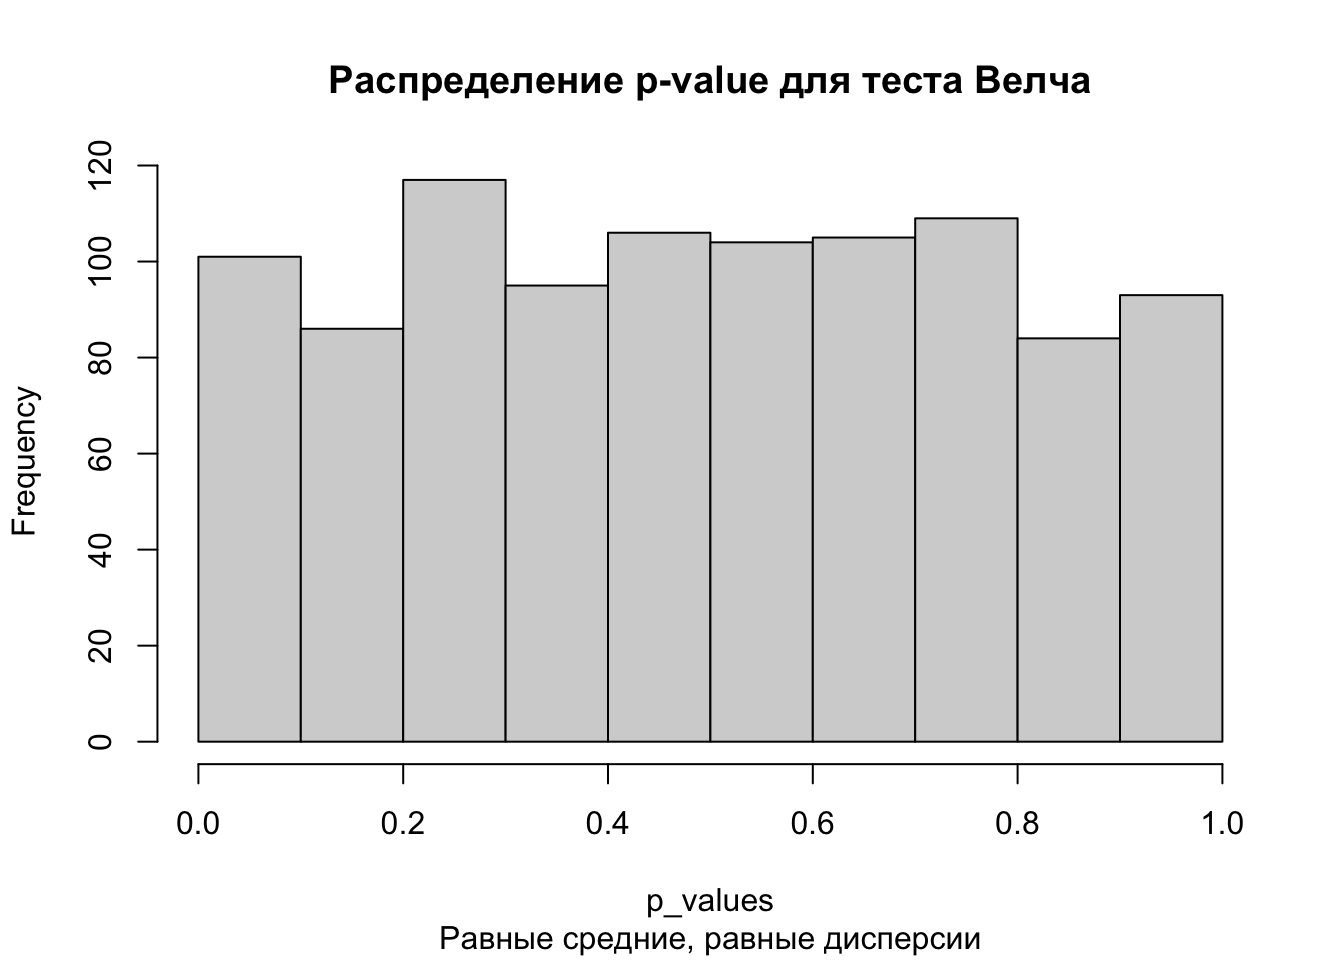
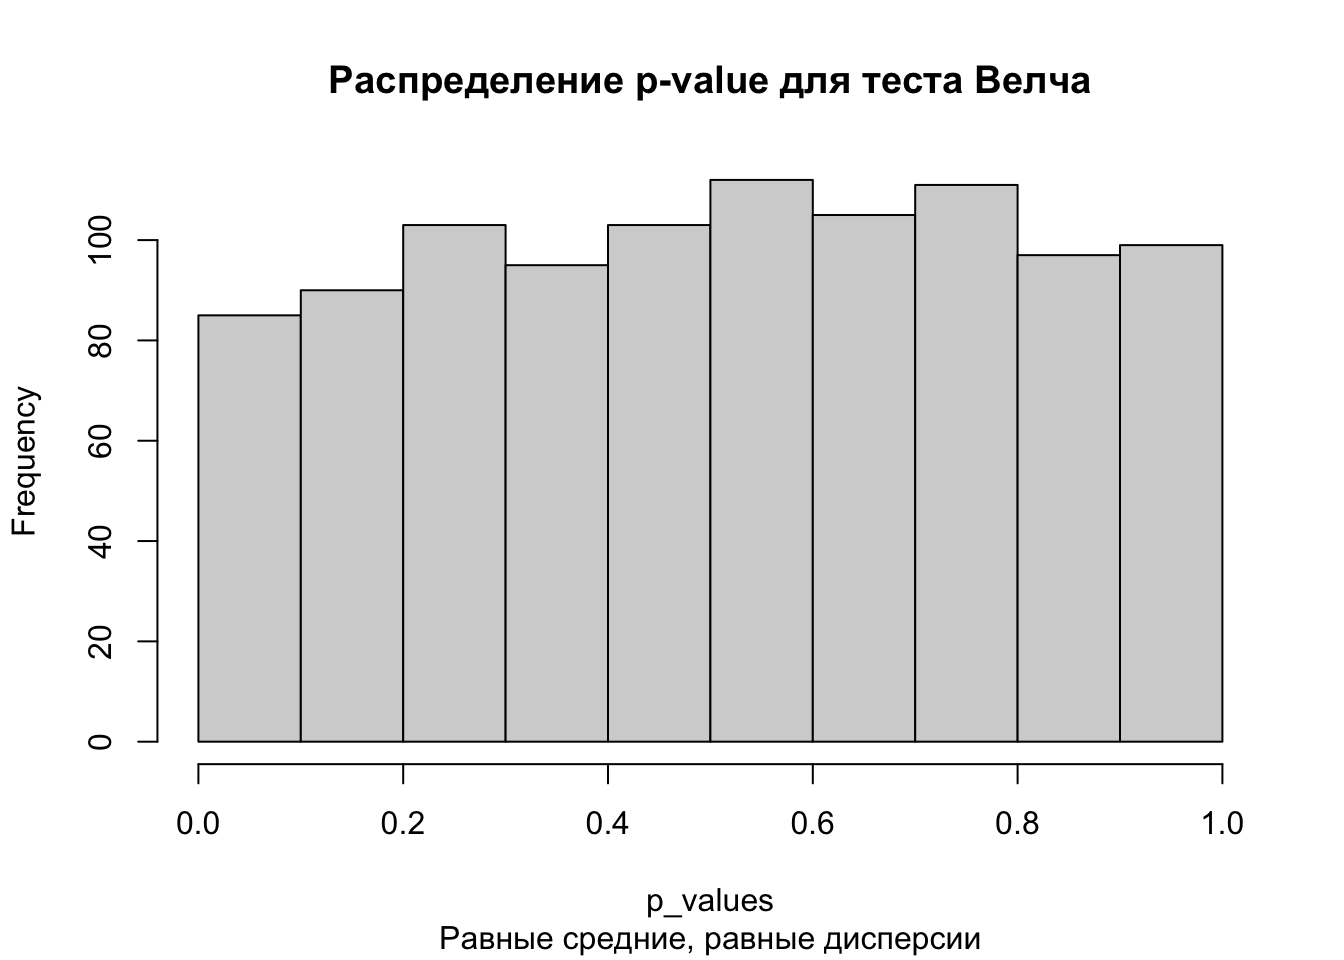
Built site for gh-pages

diff --git a/posts/welch_test.html b/posts/welch_test.html
@@ -301,13 +301,13 @@ s_x = \sqrt{\frac{(n_1 - 1)s_1^2 + (n_2 - 1)s_2^2}{n_1 + n_2 - 2}}
     Two Sample t-test
 
 data:  rnorm(100, mean = 0, sd = 1) and rnorm(100, mean = 0, sd = 1)
-t = 0.21959, df = 198, p-value = 0.8264
+t = -0.88299, df = 198, p-value = 0.3783
 alternative hypothesis: true difference in means is not equal to 0
 95 percent confidence interval:
- -0.2432011  0.3041501
+ -0.4127938  0.1574581
 sample estimates:
-  mean of x   mean of y 
--0.01654299 -0.04701750 </code></pre>
+   mean of x    mean of y 
+-0.129252208 -0.001584367 </code></pre>
 </div>
 </div>
 <p>Однако это делать не рекомендуется, поскольку при равных дисперсиях тест Стьюдента не будет сильно отличаться от теста Велча, а при разных тест Велча точнее.</p>
@@ -377,7 +377,7 @@ df = \frac{(s_1^2/n_1 + s_2^2 / n_2)^2}{(s_1^2/n_1)^2/(n_1-1) + (s_2^2/n_2)^2/(n
 </div>
 <div class="sourceCode cell-code" id="cb5"><pre class="sourceCode r code-with-copy"><code class="sourceCode r"><span id="cb5-1"><a href="#cb5-1" aria-hidden="true" tabindex="-1"></a><span class="fu">mean</span>(p_values <span class="sc">&lt;</span> <span class="fl">0.05</span>) <span class="co"># доля p-value, которые оказались меньше 0.05 (прокрасились) </span></span></code><button title="Copy to Clipboard" class="code-copy-button"><i class="bi"></i></button></pre></div>
 <div class="cell-output cell-output-stdout">
-<pre><code>[1] 0.045</code></pre>
+<pre><code>[1] 0.041</code></pre>
 </div>
 </div>
 <p><strong>Тест Стьюдента</strong></p>
@@ -398,7 +398,7 @@ df = \frac{(s_1^2/n_1 + s_2^2 / n_2)^2}{(s_1^2/n_1)^2/(n_1-1) + (s_2^2/n_2)^2/(n
 </div>
 <div class="sourceCode cell-code" id="cb8"><pre class="sourceCode r code-with-copy"><code class="sourceCode r"><span id="cb8-1"><a href="#cb8-1" aria-hidden="true" tabindex="-1"></a><span class="fu">mean</span>(p_values <span class="sc">&lt;</span> <span class="fl">0.05</span>) <span class="co"># доля p-value, которые оказались меньше 0.05 (прокрасились)</span></span></code><button title="Copy to Clipboard" class="code-copy-button"><i class="bi"></i></button></pre></div>
 <div class="cell-output cell-output-stdout">
-<pre><code>[1] 0.039</code></pre>
+<pre><code>[1] 0.038</code></pre>
 </div>
 </div>
 <p>Здесь у нас вероятность ошибки первого рода для обоих тестов примерно 0.05, а также распределение p-value похоже на равномерное. Это ожидаемо и корректно, так как выборки извлекались из одинаковой генеральной совокупности, а значит, что доля ложноположительных результатов (=прокрасов) должна быть не больше заданного уровня <span class="math inline">\(\alpha = 0.05\)</span>.</p>
@@ -741,9 +741,11 @@ df = \frac{(s_1^2/n_1 + s_2^2 / n_2)^2}{(s_1^2/n_1)^2/(n_1-1) + (s_2^2/n_2)^2/(n
 </section>
 <section id="разное-среднее-разная-дисперсия-равный-размер-выборок" class="level3">
 <h3 class="anchored" data-anchor-id="разное-среднее-разная-дисперсия-равный-размер-выборок">Разное среднее, разная дисперсия, равный размер выборок</h3>
+<p>Среднее отличается, и еще стандартное отклонение в одной из выборок выше на 2.</p>
+<p>Проверим работу тестов:</p>
 <div class="cell">
-<div class="sourceCode cell-code" id="cb40"><pre class="sourceCode r code-with-copy"><code class="sourceCode r"><span id="cb40-1"><a href="#cb40-1" aria-hidden="true" tabindex="-1"></a>pop1 <span class="ot">&lt;-</span> <span class="fu">rnorm</span>(<span class="dv">100000</span>, <span class="fl">0.2</span>, <span class="dv">1</span>)</span>
-<span id="cb40-2"><a href="#cb40-2" aria-hidden="true" tabindex="-1"></a>pop2 <span class="ot">&lt;-</span> <span class="fu">rnorm</span>(<span class="dv">100000</span>, <span class="fl">0.3</span>, <span class="dv">3</span>)</span>
+<div class="sourceCode cell-code" id="cb40"><pre class="sourceCode r code-with-copy"><code class="sourceCode r"><span id="cb40-1"><a href="#cb40-1" aria-hidden="true" tabindex="-1"></a>pop1 <span class="ot">&lt;-</span> <span class="fu">rnorm</span>(<span class="dv">100000</span>, <span class="fl">0.2</span>, <span class="dv">1</span>) <span class="co"># создание генеральной совокупности</span></span>
+<span id="cb40-2"><a href="#cb40-2" aria-hidden="true" tabindex="-1"></a>pop2 <span class="ot">&lt;-</span> <span class="fu">rnorm</span>(<span class="dv">100000</span>, <span class="fl">0.3</span>, <span class="dv">3</span>) <span class="co"># создание генеральной совокупности</span></span>
 <span id="cb40-3"><a href="#cb40-3" aria-hidden="true" tabindex="-1"></a><span class="fu">mean</span>(<span class="fu">replicate</span>(<span class="dv">10000</span>, <span class="fu">t.test</span>(pop1 <span class="sc">%&gt;%</span> </span>
 <span id="cb40-4"><a href="#cb40-4" aria-hidden="true" tabindex="-1"></a>                               <span class="fu">sample</span>(<span class="dv">10000</span>, <span class="at">replace =</span> <span class="cn">FALSE</span>), </span>
 <span id="cb40-5"><a href="#cb40-5" aria-hidden="true" tabindex="-1"></a>                             pop2 <span class="sc">%&gt;%</span> </span>
@@ -829,6 +831,63 @@ df = \frac{(s_1^2/n_1 + s_2^2 / n_2)^2}{(s_1^2/n_1)^2/(n_1-1) + (s_2^2/n_2)^2/(n
 <section id="выводы" class="level2">
 <h2 class="anchored" data-anchor-id="выводы">Выводы</h2>
 <p>В большинстве случаев оба теста контролируют ошибку первого рода и мощность на заданном уровне. Однако у теста Стьюдента есть проблема с ошибкой первого рода (ложноположительные результаты) в ситуации с неравными дисперсиями и разным размером выборок.</p>
+<table class="caption-top table">
+<caption>Здесь ✅ — тест показал себя хорошо, ❌ — тест показал себя плохо, 🟡 — тест показал себя не оптимально, но не слишком плохо</caption>
+<colgroup>
+<col style="width: 75%">
+<col style="width: 10%">
+<col style="width: 14%">
+</colgroup>
+<thead>
+<tr class="header">
+<th></th>
+<th>тест Велча</th>
+<th>тест Стьюдента</th>
+</tr>
+</thead>
+<tbody>
+<tr class="odd">
+<td>Отличий нет, равные дисперсии, равные выборки</td>
+<td>✅</td>
+<td>✅</td>
+</tr>
+<tr class="even">
+<td>Отличий нет, разные дисперсии, равные выборки</td>
+<td>✅</td>
+<td>✅</td>
+</tr>
+<tr class="odd">
+<td>Отличий нет, разные дисперсии, разные выборки, меньшая выборка с большей дисперсией</td>
+<td>✅</td>
+<td>❌</td>
+</tr>
+<tr class="even">
+<td>Отличий нет, разные дисперсии, разные выборки, бОльшая выборка с большей дисперсией</td>
+<td>✅</td>
+<td>✅</td>
+</tr>
+<tr class="odd">
+<td>Отличия есть, равные дисперсии, равные выборки</td>
+<td>✅</td>
+<td>✅</td>
+</tr>
+<tr class="even">
+<td>Отличия есть, разные дисперсии, равные выборки</td>
+<td>✅</td>
+<td>✅</td>
+</tr>
+<tr class="odd">
+<td>Отличий нет, разные дисперсии, разные выборки, меньшая выборка с большей дисперсией</td>
+<td>🟡</td>
+<td>✅</td>
+</tr>
+<tr class="even">
+<td>Отличий нет, разные дисперсии, разные выборки, бОльшая выборка с большей дисперсией</td>
+<td>✅</td>
+<td>🟡</td>
+</tr>
+</tbody>
+</table>
 <p>Поэтому рекомендация использовать тест Велча вне зависимости от дисперсий остается актуальной.</p>
 <div class="callout callout-style-default callout-note callout-titled">
 <div class="callout-header d-flex align-content-center">

diff --git a/index.html b/index.html
@@ -223,7 +223,7 @@ window.Quarto = {
 
 <div class="quarto-listing quarto-listing-container-default" id="listing-listing">
 <div class="list quarto-listing-default">
-<div class="quarto-post image-right" data-index="0" data-categories="statistics" data-listing-date-sort="1732384800000" data-listing-file-modified-sort="1732446527212" data-listing-date-modified-sort="NaN" data-listing-reading-time-sort="22" data-listing-word-count-sort="4358">
+<div class="quarto-post image-right" data-index="0" data-categories="statistics" data-listing-date-sort="1732384800000" data-listing-file-modified-sort="1732448277049" data-listing-date-modified-sort="NaN" data-listing-reading-time-sort="25" data-listing-word-count-sort="4913">
 <div class="thumbnail">
 <p><a href="./posts/welch_test.html" class="no-external"></a></p><a href="./posts/welch_test.html" class="no-external">
 <div class="listing-item-img-placeholder card-img-top" >&nbsp;</div>
